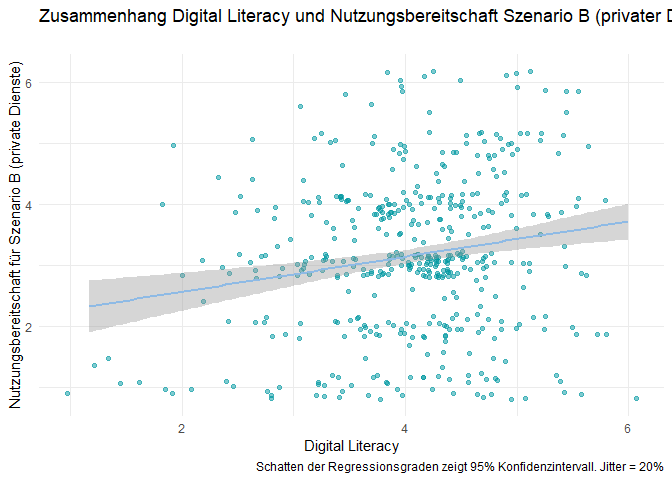
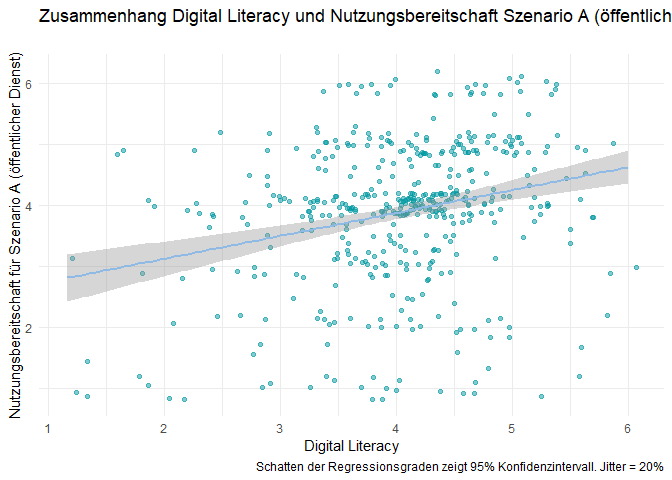
paired t-test visualisiert, ohne weinen!

diff --git a/readme.md b/readme.md
@@ -48,16 +48,13 @@ Substanz (mindestens 3 Items) - und damit ihre Funktionalität behalten.
     ##  Welch Two Sample t-test
     ## 
     ## data:  df_male$SzOeff and df_female$SzOeff
-    ## t = 3.5795, df = 309.42, p-value = 0.0003996
+    ## t = 2.7526, df = 342.08, p-value = 0.006228
     ## alternative hypothesis: true difference in means is not equal to 0
     ## 95 percent confidence interval:
-    ##  0.8693528 2.9919469
+    ##  0.09443344 0.56726842
     ## sample estimates:
     ## mean of x mean of y 
-    ##  46.11325  44.18260
-
-    ## Warning: Removed 3 rows containing missing values or values outside the scale range
-    ## (`geom_bar()`).
+    ##  4.091880  3.761029
 
 ![](readme_files/figure-markdown_strict/unnamed-chunk-3-1.png)
 
@@ -89,13 +86,40 @@ Substanz (mindestens 3 Items) - und damit ihre Funktionalität behalten.
     ##  Paired t-test
     ## 
     ## data:  df$SzOeff and df$SzPriv
-    ## t = 131.96, df = 463, p-value < 2.2e-16
+    ## t = 13.833, df = 463, p-value < 2.2e-16
     ## alternative hypothesis: true mean difference is not equal to 0
     ## 95 percent confidence interval:
-    ##  41.11553 42.35861
+    ##  0.6237313 0.8302917
     ## sample estimates:
     ## mean difference 
-    ##        41.73707
+    ##       0.7270115
+
+    df_WAP$Szenario %>% 
+      recode(`1` = "SzOeff", `2` = "SzPriv") %>% 
+      as.factor() -> df_WAP$Szenario
+
+    df_WAP%>%
+      group_by(Szenario) %>% 
+      summarise(mean_Nutzungsbereitschaft = mean(Nutzungsbereitschaft), sem_Nutzungsbereitschaft = std.error(Nutzungsbereitschaft)) %>%
+      ggplot() +
+      aes(x = Szenario, y = mean_Nutzungsbereitschaft, weight = mean_Nutzungsbereitschaft, colour = Szenario, ymin = mean_Nutzungsbereitschaft - sem_Nutzungsbereitschaft, ymax = mean_Nutzungsbereitschaft + sem_Nutzungsbereitschaft) +
+      geom_errorbar(width = 0.2, colour = rwthcolor$black) +
+      geom_point(size = 5) +
+      scale_colour_manual(values=c(rwthcolor$lightblue, rwthcolor$red)) + 
+      ylim(3,4.1) +
+      theme_gray() +
+      labs(title = "Die Nutzungsbereitschaft für Szenario A ist höher als für das Szenario B", 
+           subtitle = "Unterschiede der Nutzungsbereitschaft für KI-Services, wenn die erhobenen Daten vom Öffentlichen Dienst oder der Privatwirtschaft genutzt werden", 
+           x = "Szenario",
+           y = "Nutzungsbereitschaft [1 - 6]",
+           fill = "Szenario",
+           caption = "Fehlerbalken zeigen Standardfehler des Mittelwertes") +
+      NULL
+
+    ## Ignoring unknown labels:
+    ## • fill : "Szenario"
+
+![](readme_files/figure-markdown_strict/unnamed-chunk-9-1.png)
 
 #### Unterschiedshypothese für MANOVA
 
@@ -114,17 +138,17 @@ Substanz (mindestens 3 Items) - und damit ihre Funktionalität behalten.
     ##  Pearson's product-moment correlation
     ## 
     ## data:  df$DigLit and df$SzOeff
-    ## t = 0.088812, df = 462, p-value = 0.9293
+    ## t = 5.7053, df = 462, p-value = 2.077e-08
     ## alternative hypothesis: true correlation is not equal to 0
     ## 95 percent confidence interval:
-    ##  -0.08693273  0.09512800
+    ##  0.1694784 0.3396517
     ## sample estimates:
-    ##         cor 
-    ## 0.004131875
+    ##       cor 
+    ## 0.2565522
 
     ## `geom_smooth()` using formula = 'y ~ x'
 
-![](readme_files/figure-markdown_strict/unnamed-chunk-9-1.png)
+![](readme_files/figure-markdown_strict/unnamed-chunk-11-1.png)
 
 1.  Es gibt einen Zusammenhang zwischen Digital Literacy und
     Nutzungsbereitschaft in Szenario B (privatwirtschaftliche Zwecke).
@@ -145,7 +169,7 @@ Substanz (mindestens 3 Items) - und damit ihre Funktionalität behalten.
 
     ## `geom_smooth()` using formula = 'y ~ x'
 
-![](readme_files/figure-markdown_strict/unnamed-chunk-11-1.png)
+![](readme_files/figure-markdown_strict/unnamed-chunk-13-1.png)
 
 #### Zusammenhangshypothese für multiple lineare Regression
 
@@ -185,4 +209,4 @@ n(d=0.8; “hoch”)=51.04916
     ## Warning: Removed 37 rows containing non-finite outside the scale range
     ## (`stat_bin()`).
 
-![](readme_files/figure-markdown_strict/unnamed-chunk-12-1.png)
+![](readme_files/figure-markdown_strict/unnamed-chunk-14-1.png)
